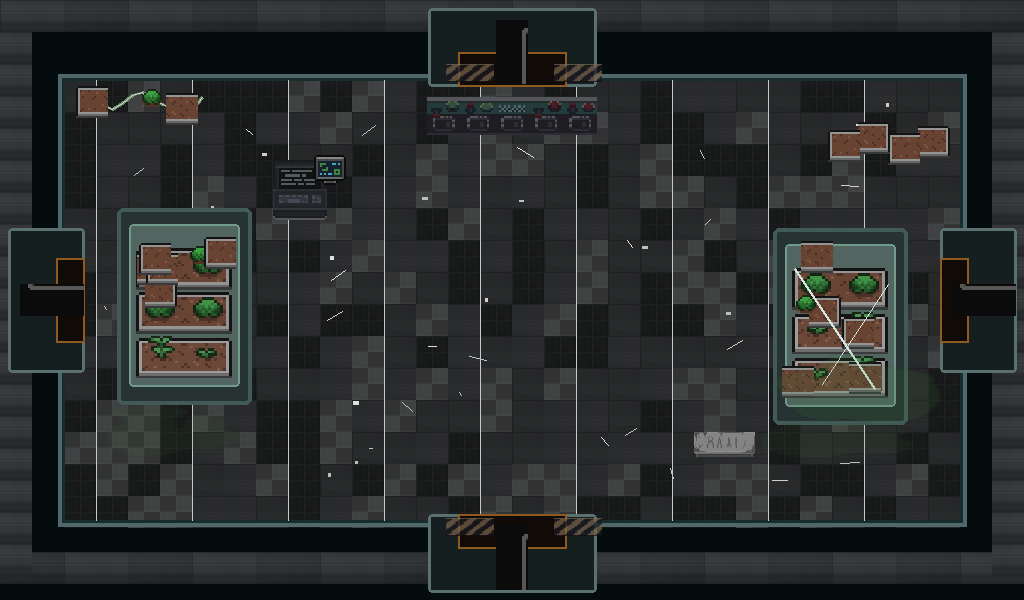
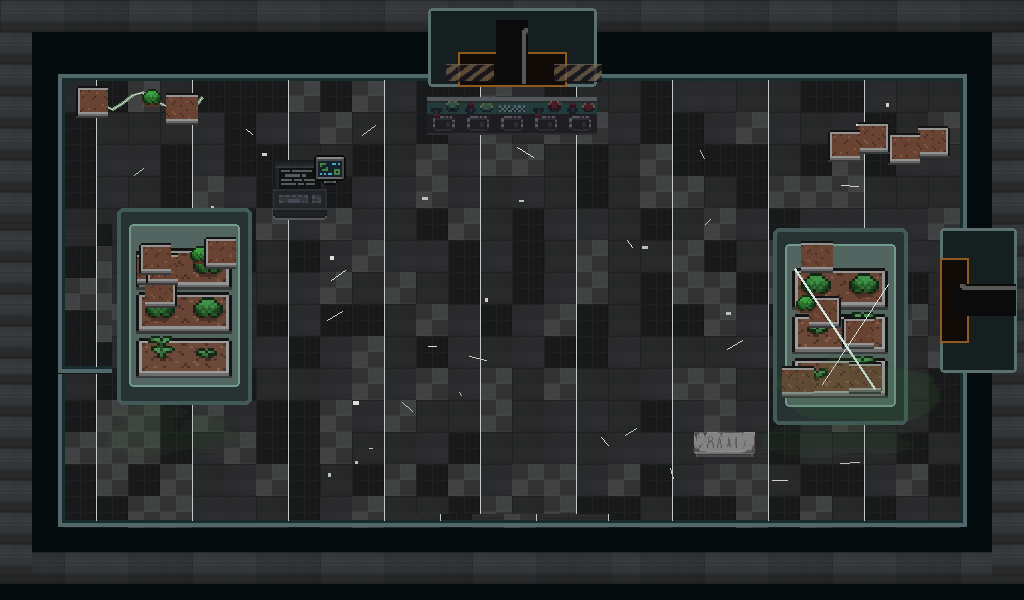
Remove greenhouse entry false door decorations

Changed region(s): [[0.4062, 0.84, 0.5938, 0.99], [0.0, 0.36, 0.125, 0.63]]

diff --git a/tools/build_greenhouse_room_art.py b/tools/build_greenhouse_room_art.py
@@ -138,7 +138,7 @@ LOP_WALL_SCREEN = recolor(trim(crop(LOP_STUFF, (480, 80, 736, 128))), brightness
 LOP_LIQUID = recolor(crop(LOP_LIQUID, (64, 0, 96, 32)), brightness=0.55, saturation=0.65, alpha=0.64)
 
 
-def draw_room_shell(rng: random.Random) -> Image.Image:
+def draw_room_shell(rng: random.Random, door_directions: tuple[str, ...] = ("up", "down", "left", "right")) -> Image.Image:
     img = Image.new("RGBA", ROOM_SIZE, (5, 12, 14, 255))
     draw = ImageDraw.Draw(img, "RGBA")
 
@@ -172,10 +172,8 @@ def draw_room_shell(rng: random.Random) -> Image.Image:
         else:
             draw.rectangle((x, y, x + rng.randrange(2, 6), y + rng.randrange(1, 4)), fill=col)
 
-    draw_door(img, "up")
-    draw_door(img, "down")
-    draw_door(img, "left")
-    draw_door(img, "right")
+    for direction in door_directions:
+        draw_door(img, direction)
     return img
 
 
@@ -275,7 +273,7 @@ def draw_floor_liquid_tiles(img: Image.Image, rect: tuple[int, int, int, int], r
 
 def greenhouse_entry_room() -> Image.Image:
     rng = random.Random(2101)
-    img = draw_room_shell(rng)
+    img = draw_room_shell(rng, ("up", "right"))
     draw_culture_bay(img, (184, 306), rng, False, False)
     draw_culture_bay(img, (840, 326), rng, True, True)
     paste_equipment(img, VOID_CONSOLE.resize((54, 60), Image.Resampling.NEAREST), (300, 190))

diff --git a/CHANGELOG.md b/CHANGELOG.md
@@ -4,6 +4,25 @@
 
 自 2026-06-22 起，个人开发分支产生的更新在标题末尾使用 `｜姓名` 标注负责人，便于合并 `xiankai-test`、`haitian-test` 与 `playtest` 时确认来源。先凯负责的更新统一标注为 `｜先凯`。
 
+## v0.3.13 - 删除第二章温室入口左侧与下侧伪门装饰｜先凯
+
+日期：2026-07-16
+
+### 调整
+
+- 删除第二章温室入口底图左侧墙边的旧门洞色块、装饰和素材残留，避免非门方向继续被误认为出口。
+- 删除第二章温室入口底图下侧中部的旧门样式和异色色块，使该方向恢复为连续墙边/地面视觉。
+- 同步调整温室入口底图生成脚本，入口房只保留真实使用的上方和右侧门绘制，不再生成左侧和下侧伪门。
+
+### 修复
+
+- 修复第二章温室入口非门方向仍显示门洞式视觉的问题。
+- 修复入口底图中旧伪门装饰与统一章节门系统重复显示、造成出口误判的问题。
+
+### TODO
+
+- 后续继续检查第二章其它底图是否仍保留非真实连接方向的旧门形装饰。
+
 ## v0.3.12 - 删除第二章未连接方向伪门板装饰｜先凯
 
 日期：2026-07-15
